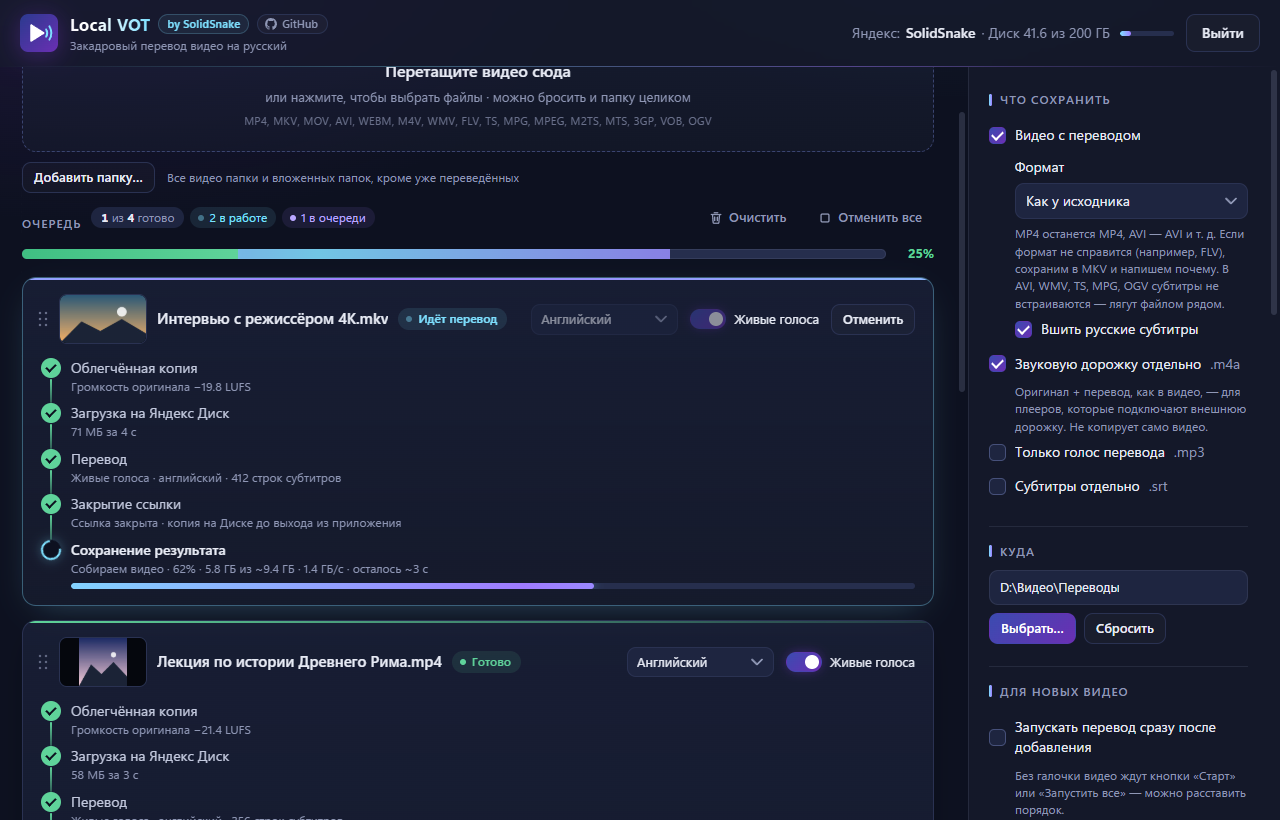
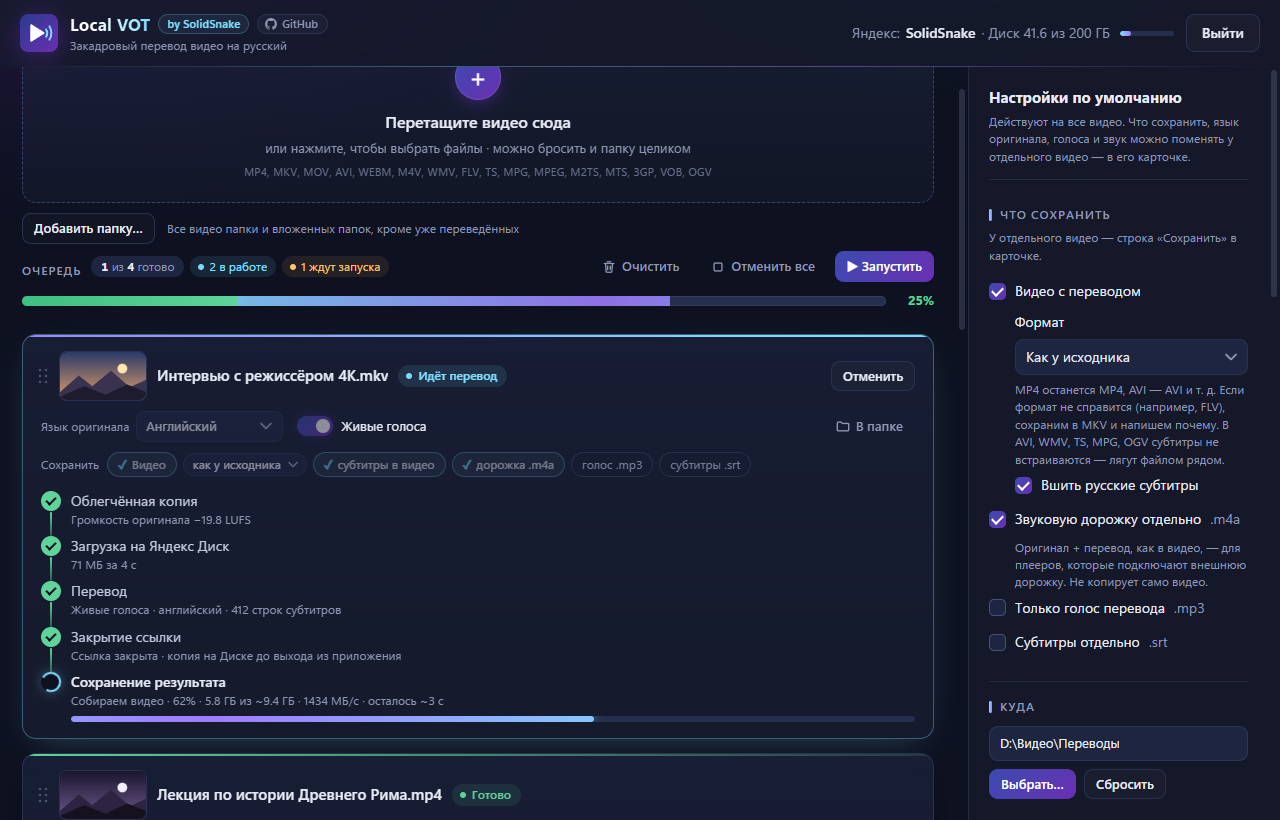
Update screenshots and README for 0.3.0

diff --git a/src/renderer/index.html b/src/renderer/index.html
@@ -278,7 +278,7 @@
         </div>
         <div class="action-row job-remux-row" hidden>
           <button class="btn btn-small btn-ghost job-remux" type="button">Пересобрать видео</button>
-          <span class="muted small">Без Яндекса — например, после смены «Что сохранить» или формата. Прежняя версия — в Корзину</span>
+          <span class="muted small">Без Яндекса — например, после смены «Сохранить» или формата. Прежняя версия — в Корзину</span>
         </div>
         <div class="action-row">
           <button class="btn btn-small btn-ghost job-remove" type="button">Убрать из списка</button>

diff --git a/README.md b/README.md
@@ -101,8 +101,9 @@
 
 1. Нажмите **«Войти через Яндекс»**, откройте страницу Яндекса, введите код из программы и разрешите доступ.
 2. Перетащите видео (или целую папку) в окно программы.
-3. Выберите язык видео и голоса, расставьте порядок и нажмите **«Запустить все»**
-   (сколько видео переводить одновременно — в настройках, раздел «Очередь»).
+3. Проверьте в карточке видео **язык оригинала** (на каком языке говорят в видео), голоса и что сохранить,
+   расставьте порядок и нажмите **«Запустить все»**. Значения по умолчанию — в панели справа «Настройки по
+   умолчанию» (там же — сколько видео переводить одновременно, раздел «Очередь»).
 4. Когда перевод готов, послушайте кусок прямо в карточке видео и при желании подстройте громкость —
    кнопка **«Сохранить с этим звуком»** пересоберёт файл за секунды.
 

diff --git a/README.en.md b/README.en.md
@@ -102,8 +102,9 @@ Settings, the Yandex sign-in and the log are kept when updating.
 
 1. Press **«Войти через Яндекс»** (Sign in with Yandex), open the Yandex page, enter the code from the app and allow access.
 2. Drag videos (or a whole folder) into the app window.
-3. Choose the video language and voices, reorder the queue and press **«Запустить все»** (Start all)
-   (how many videos to translate at once — in the settings, «Очередь» section).
+3. In the video card, check the **original language** (the language spoken in the video), the voices and what
+   to save, reorder the queue and press **«Запустить все»** (Start all). Defaults live in the right-hand
+   «Настройки по умолчанию» (Default settings) panel — including how many videos to translate at once («Очередь»).
 4. When the translation is ready, listen to a fragment right in the video card and adjust the volume if you
    like — **«Сохранить с этим звуком»** (Save with this sound) rebuilds the file in seconds.
 
